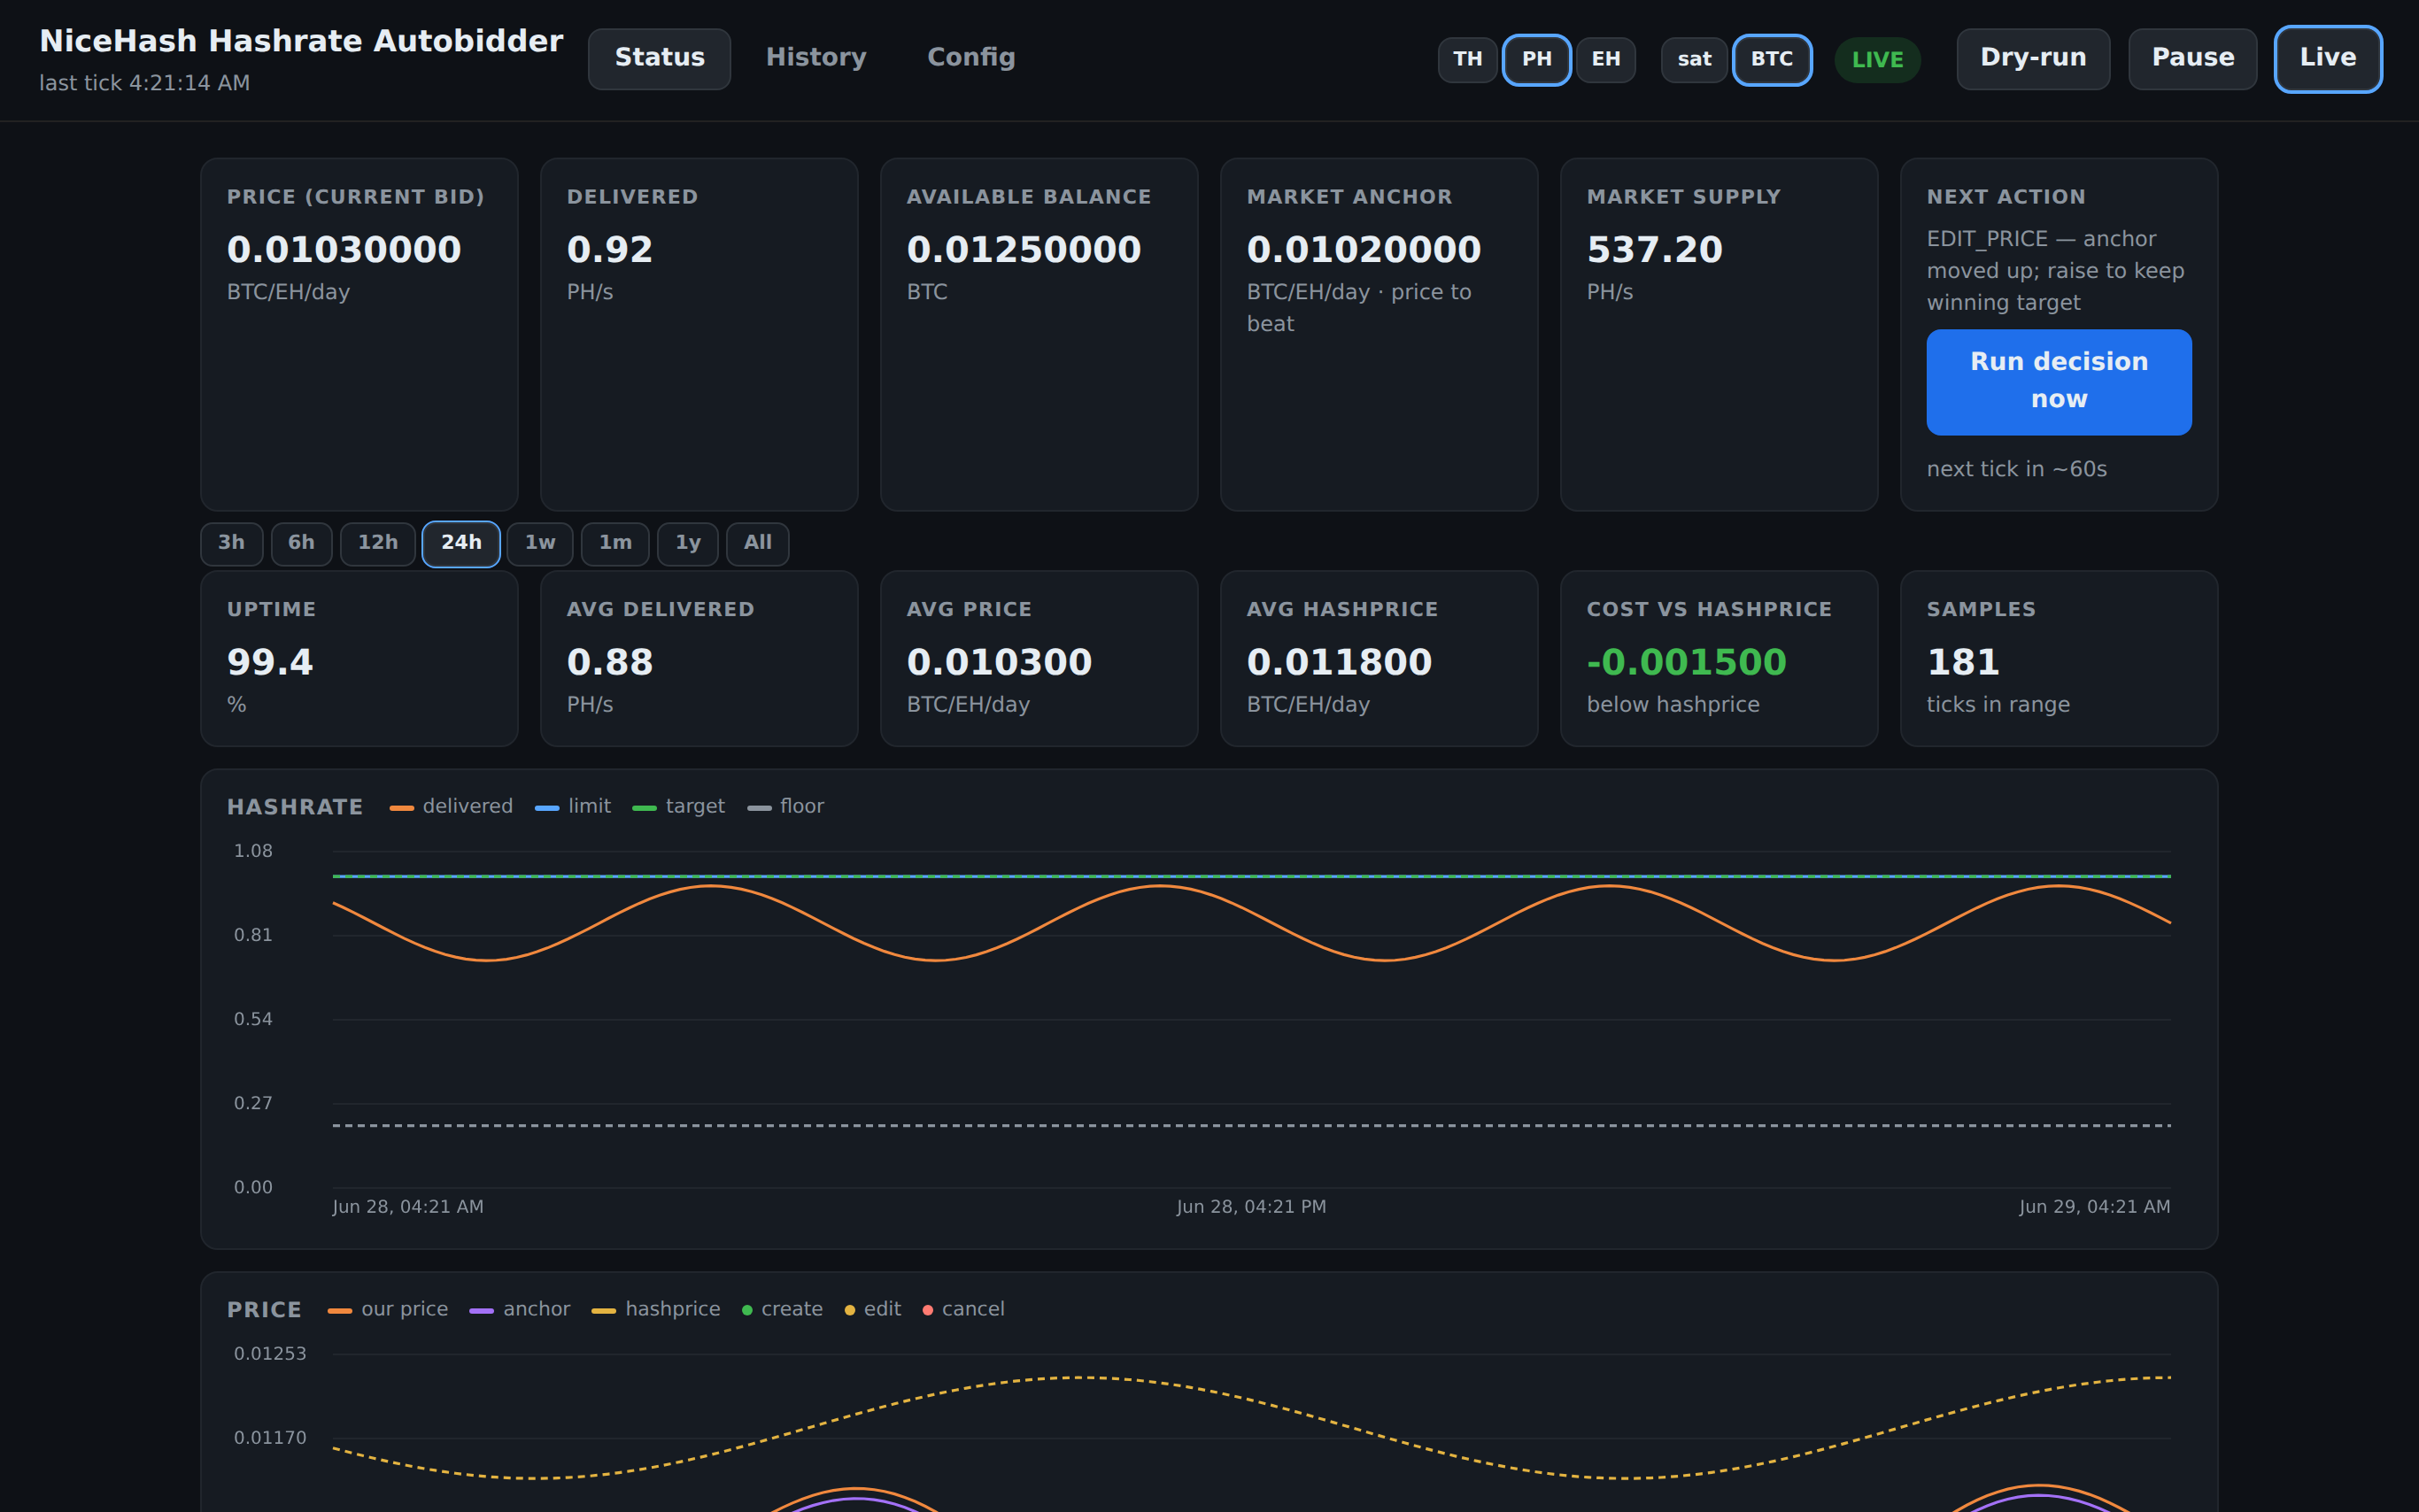
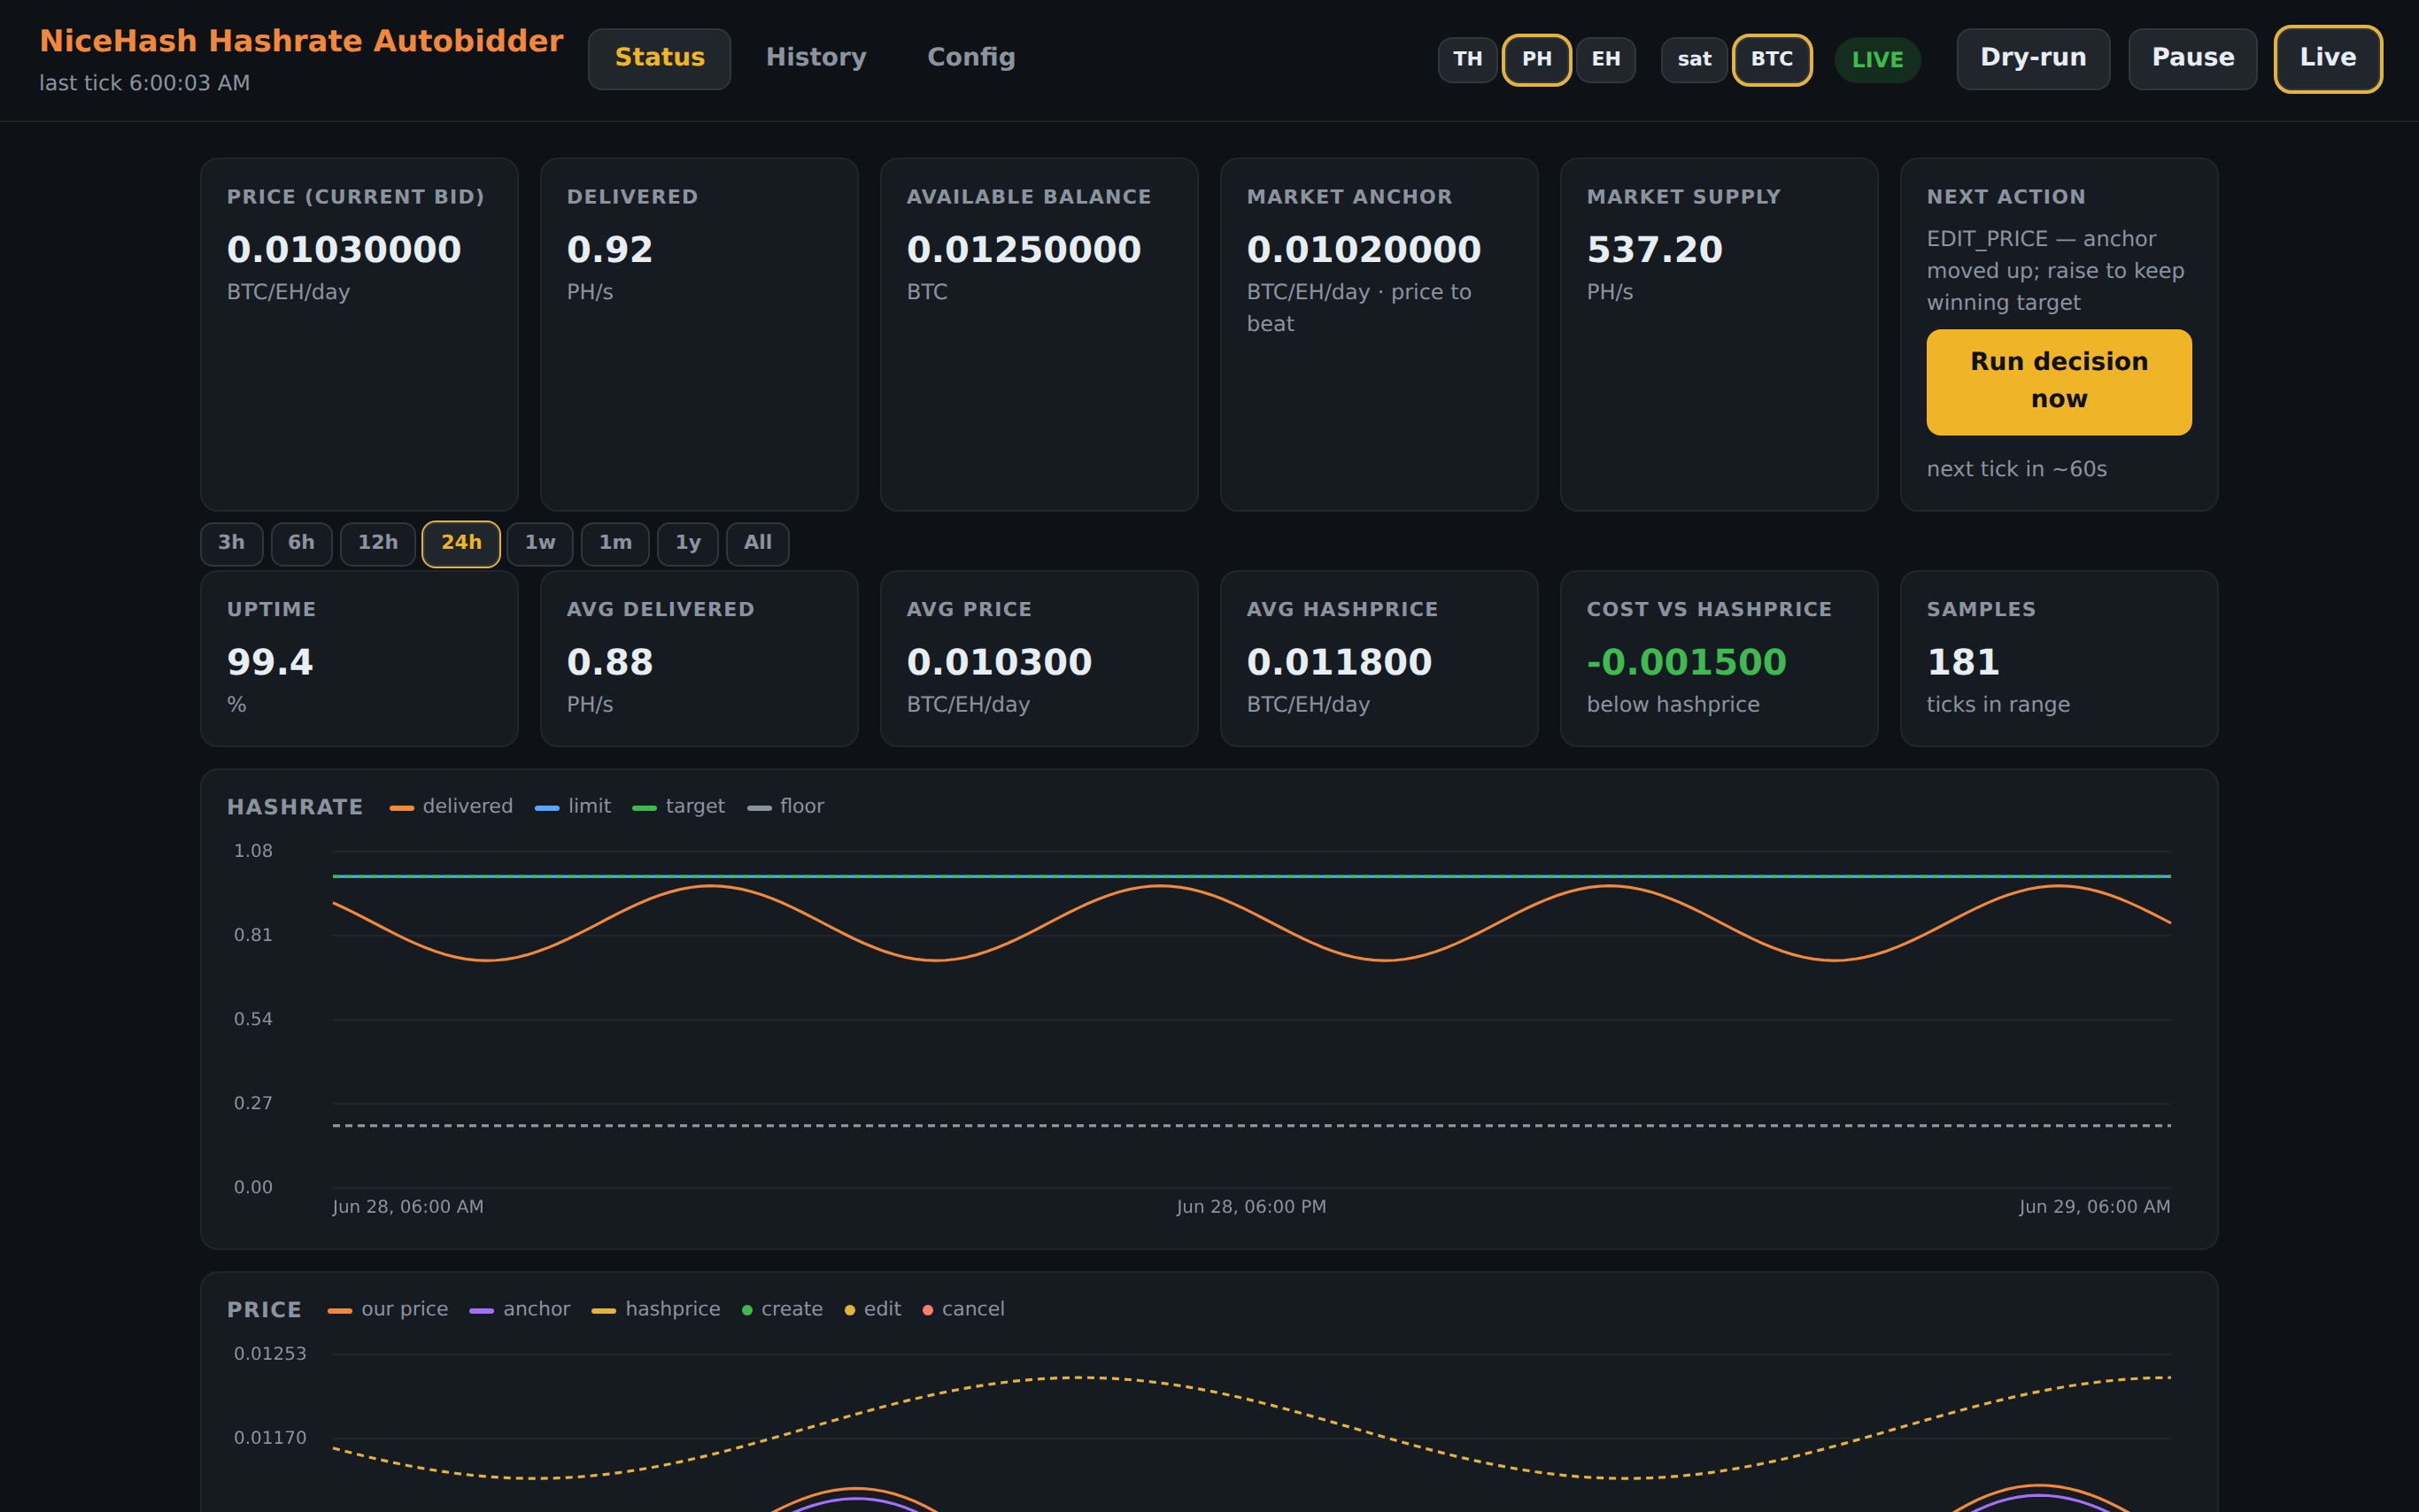
v0.3.1: mainnet defaults, autobidder theme, config help text
Three operator-facing refinements on top of the parity dashboard:

- Compose: default to the NiceHash mainnet API (api2.nicehash.com,
  balance currency BTC) and ship the API key/secret/org + pool BLANK.
  Those env values only seed settings on first install; the daemon boots
  from the values saved in the dashboard (app database) thereafter, so an
  update never clobbers them and existing installs keep their config.
  Removes the testnet throwaway credentials that were baked in for early
  testing.

- Dashboard re-themed to the Hashrate Autopilot palette: orange brand,
  amber/gold primary buttons + active states (nav, range, unit toggles,
  focus rings), orange links - replacing the blue accent.

- Every Config field now has an inline description (autobidder-style),
  including a clarification that "minimum floor" is a hashrate reference
  line drawn on the chart, NOT a price. The price floor you must outbid -
  the marginal/last-filled order NiceHash shows in purple in its order
  book - is the live market anchor, which computeMarketAnchor already
  tracks; the bidder sits overpay above it. (No bidding-logic change; the
  anchor was already the right analogue.)

Gallery screenshots refreshed to the themed UI. Version + image pinned to
0.3.1. Typecheck, the NiceHash suite (128), and lint are green.

Claude-Session: https://claude.ai/code/session_017LmUgmJCorAaVqeB3C9tAL

diff --git a/packages/daemon/src/http/nicehash-dashboard-html.ts b/packages/daemon/src/http/nicehash-dashboard-html.ts
@@ -29,12 +29,12 @@ export const NICEHASH_DASHBOARD_HTML = String.raw`<!doctype html>
   * { box-sizing: border-box; }
   body { margin: 0; font: 14px/1.5 system-ui, sans-serif; background: #0e1116; color: #e6edf3; }
   header { display: flex; align-items: center; gap: 14px; padding: 12px 22px; border-bottom: 1px solid #222; flex-wrap: wrap; }
-  h1 { font-size: 17px; margin: 0; font-weight: 600; }
+  h1 { font-size: 17px; margin: 0; font-weight: 600; color: #f0883e; }
   .sub { color: #8b949e; font-size: 12px; }
   .grow { flex: 1; }
   nav { display: flex; gap: 4px; }
   nav button { font: inherit; font-weight: 600; padding: 6px 14px; border-radius: 8px; border: 1px solid transparent; background: transparent; color: #8b949e; cursor: pointer; }
-  nav button.active { color: #e6edf3; background: #21262d; border-color: #30363d; }
+  nav button.active { color: #f0b429; background: #21262d; border-color: #30363d; }
   .badge { padding: 4px 10px; border-radius: 999px; font-weight: 600; font-size: 12px; }
   .mode-DRY_RUN { background: #1f6feb33; color: #58a6ff; }
   .mode-LIVE { background: #2ea04333; color: #3fb950; }
@@ -53,10 +53,10 @@ export const NICEHASH_DASHBOARD_HTML = String.raw`<!doctype html>
   th, td { text-align: left; padding: 6px 8px; border-bottom: 1px solid #21262d; font-variant-numeric: tabular-nums; font-size: 13px; }
   th { color: #8b949e; font-weight: 600; font-size: 11px; text-transform: uppercase; }
   .controls button, .toggle button { font: inherit; font-weight: 600; padding: 6px 12px; margin-left: 6px; border-radius: 8px; border: 1px solid #30363d; background: #21262d; color: #e6edf3; cursor: pointer; }
-  .controls button.active, .toggle button.active { outline: 2px solid #58a6ff; }
+  .controls button.active, .toggle button.active { outline: 2px solid #e3b341; }
   .toggle button { margin-left: 0; padding: 4px 8px; font-size: 11px; }
   .toggle { display: inline-flex; gap: 4px; align-items: center; }
-  .primary { background: #1f6feb !important; border-color: #1f6feb !important; }
+  .primary { background: #f0b429 !important; border-color: #f0b429 !important; color: #0e1116 !important; }
   .warn { background: #f8514922; border: 1px solid #f85149; color: #ff7b72; border-radius: 8px; padding: 10px 14px; margin-bottom: 14px; }
   .pill { padding: 2px 8px; border-radius: 6px; font-size: 11px; font-weight: 600; }
   .ok { background: #2ea04333; color: #3fb950; } .blocked { background: #6e768133; color: #8b949e; }
@@ -71,20 +71,21 @@ export const NICEHASH_DASHBOARD_HTML = String.raw`<!doctype html>
   canvas { width: 100%; height: 220px; display: block; margin-top: 8px; }
   .rangebar { display: flex; gap: 4px; margin: 6px 0 2px; flex-wrap: wrap; }
   .rangebar button { font: inherit; font-size: 11px; font-weight: 600; padding: 3px 9px; border-radius: 7px; border: 1px solid #30363d; background: #161b22; color: #8b949e; cursor: pointer; }
-  .rangebar button.active { background: #21262d; color: #e6edf3; outline: 1px solid #58a6ff; }
+  .rangebar button.active { background: #21262d; color: #f0b429; outline: 1px solid #e3b341; }
   fieldset { border: 1px solid #21262d; border-radius: 10px; margin: 0 0 14px; padding: 10px 14px; }
   legend { color: #8b949e; font-size: 11px; text-transform: uppercase; letter-spacing: .06em; padding: 0 6px; }
   .formgrid { display: grid; grid-template-columns: repeat(auto-fit, minmax(230px, 1fr)); gap: 10px 16px; }
   .formgrid label { display: flex; flex-direction: column; gap: 4px; font-size: 12px; color: #8b949e; }
-  .formgrid label.chk { flex-direction: row; align-items: center; gap: 8px; }
+  .formgrid .chkrow { display: flex; align-items: center; gap: 8px; }
+  .formgrid .help { color: #586069; font-size: 11px; font-weight: 400; line-height: 1.35; }
   .formgrid input, .formgrid select { font: inherit; padding: 7px 9px; border-radius: 7px; border: 1px solid #30363d; background: #0e1116; color: #e6edf3; }
-  .formgrid input:focus, .formgrid select:focus { outline: 2px solid #1f6feb; border-color: #1f6feb; }
+  .formgrid input:focus, .formgrid select:focus { outline: 2px solid #e3b341; border-color: #e3b341; }
   .btnrow { display: flex; align-items: center; gap: 10px; margin: 6px 0 8px; flex-wrap: wrap; }
   .btnrow button { font: inherit; font-weight: 600; padding: 8px 16px; border-radius: 8px; border: 1px solid #30363d; background: #21262d; color: #e6edf3; cursor: pointer; }
   .msg { font-size: 12px; color: #8b949e; }
-  code { color: #79c0ff; }
+  code { color: #e3b341; }
   footer { padding: 14px 22px; color: #586069; font-size: 11px; border-top: 1px solid #222; }
-  a { color: #58a6ff; }
+  a { color: #f0883e; }
 </style>
 </head>
 <body>
@@ -502,29 +503,40 @@ export const NICEHASH_DASHBOARD_HTML = String.raw`<!doctype html>
 
   // ---- config page ---------------------------------------------------------
   var CFG = [
-    { group: 'Connection', items: [['apiKey', 'API key', 'text'], ['apiSecret', 'API secret', 'password'], ['orgId', 'Organization ID', 'text'], ['baseUrl', 'Base URL', 'text']] },
+    { group: 'Connection', items: [
+      ['apiKey', 'API key', 'text', 'Your NiceHash organization API key. Create one at nicehash.com → Settings → API keys with hash-power order permissions.'],
+      ['apiSecret', 'API secret', 'password', 'The API secret paired with the key. Write-only: shown as dots once saved — leave the dots to keep it, type a new value to replace it.'],
+      ['orgId', 'Organization ID', 'text', 'Your NiceHash organization id (Settings → API keys → your organization).'],
+      ['baseUrl', 'Base URL', 'text', 'https://api2.nicehash.com for mainnet (live funds), https://api-test.nicehash.com for the testnet sandbox.'] ] },
     { group: 'Strategy', items: [
-      ['algorithm', 'Algorithm', 'text'], ['market', 'Market', 'text'],
-      ['priceCurrency', 'Order-book currency', 'text'], ['balanceCurrency', 'Balance currency', 'text'],
-      ['tickSeconds', 'Tick seconds', 'number'], ['targetSpeedUnits', 'Target speed (PH/s)', 'number'],
-      ['minimumFloorUnits', 'Minimum floor (PH/s)', 'number'],
-      ['overpayBtcPerUnitDay', 'Overpay (BTC/EH/day)', 'number'],
-      ['maxPriceBtcPerUnitDay', 'Max price (BTC/EH/day)', 'number'],
-      ['maxPremiumOverHashpriceBtc', 'Max premium over hashprice (0=off)', 'number'],
-      ['editPriceDeadbandPct', 'Edit-price deadband (%)', 'number'],
-      ['orderBudgetBtc', 'Order budget (BTC, 0=full)', 'number'],
-      ['refillAmountBtc', 'Refill amount (BTC, 0=off)', 'number'],
-      ['refillWhenRunwayHours', 'Refill when runway < (h)', 'number'] ] },
+      ['algorithm', 'Algorithm', 'text', 'Marketplace algorithm. SHA256ASICBOOST for Bitcoin ASIC hashrate.'],
+      ['market', 'Market', 'text', 'Order-book market — BTC for the Bitcoin marketplace.'],
+      ['priceCurrency', 'Order-book currency', 'text', 'Currency bucket the order book / market anchor is read from (BTC).'],
+      ['balanceCurrency', 'Balance currency', 'text', 'Wallet currency to read your available balance from. BTC on mainnet, TBTC on testnet.'],
+      ['tickSeconds', 'Tick seconds', 'number', 'Seconds between control-loop decisions (observe → price → act).'],
+      ['targetSpeedUnits', 'Target speed (PH/s)', 'number', 'How much hashrate you want delivered. The bidder prices to win this much from the market.'],
+      ['minimumFloorUnits', 'Minimum floor (PH/s)', 'number', 'A speed reference line drawn on the hashrate chart — NOT a price. The price "floor" you must outbid (the marginal/last-filled order, shown purple in NiceHash\'s order book) is the live market anchor and is tracked automatically.'],
+      ['overpayBtcPerUnitDay', 'Overpay (BTC/EH/day)', 'number', 'Cushion added above the market anchor. Higher = more reliably filled but costs more; lower = cheaper but drops out sooner when rivals raise.'],
+      ['maxPriceBtcPerUnitDay', 'Max price (BTC/EH/day)', 'number', 'Hard ceiling on the order price. The bidder never pays more than this, even if it means not winning the full target.'],
+      ['maxPremiumOverHashpriceBtc', 'Max premium over hashprice (0=off)', 'number', 'Dynamic ceiling = network hashprice + this (BTC/EH/day). Stops overpaying when hashprice falls. 0 disables it; needs a hashprice source.'],
+      ['editPriceDeadbandPct', 'Edit-price deadband (%)', 'number', 'Only re-price when the anchor moves more than this % of the overpay cushion. Higher = fewer edits (less churn), lower = tracks the market more tightly.'],
+      ['orderBudgetBtc', 'Order budget (BTC, 0=full)', 'number', 'Escrow used to fund a new order. 0 = use the full available wallet balance.'],
+      ['refillAmountBtc', 'Refill amount (BTC, 0=off)', 'number', 'Top-up added to a live order when its escrow runs low. 0 = never refill (let the order drain and re-create).'],
+      ['refillWhenRunwayHours', 'Refill when runway < (h)', 'number', 'Trigger a refill once the order\'s remaining runway drops below this many hours.'] ] },
     { group: 'Cheap mode', items: [
-      ['cheapModeEnabled', 'Enable cheap mode', 'checkbox'],
-      ['cheapModeTargetUnits', 'Cheap-mode target (PH/s)', 'number'],
-      ['cheapThresholdPct', 'Cheap threshold (% of hashprice)', 'number'] ] },
-    { group: 'Pool', items: [['poolHost', 'Pool host', 'text'], ['poolPort', 'Pool port', 'number'], ['poolUser', 'Pool user', 'text'], ['poolPassword', 'Pool password', 'text']] },
+      ['cheapModeEnabled', 'Enable cheap mode', 'checkbox', 'When our bid sits far below the network hashprice, opportunistically scale the target up to grab cheap hashrate.'],
+      ['cheapModeTargetUnits', 'Cheap-mode target (PH/s)', 'number', 'Target speed to scale up to while cheap mode is engaged. Must exceed the normal target to have an effect.'],
+      ['cheapThresholdPct', 'Cheap threshold (% of hashprice)', 'number', 'Engage cheap mode when our bid is below this percentage of the network hashprice (e.g. 95).'] ] },
+    { group: 'Pool', items: [
+      ['poolHost', 'Pool host', 'text', 'Your stratum pool hostname. The app registers it with NiceHash automatically (no fee).'],
+      ['poolPort', 'Pool port', 'number', 'Stratum port of your pool.'],
+      ['poolUser', 'Pool user', 'text', 'Pool username / worker — often your BTC payout address (with an optional .worker suffix).'],
+      ['poolPassword', 'Pool password', 'text', 'Pool password. Many pools accept "x".'] ] },
     { group: 'Daemon & data', items: [
-      ['bootMode', 'Boot mode', 'select:DRY_RUN,RESUME,LIVE'],
-      ['hashpriceSource', 'Hashprice source', 'select:none,mempool'],
-      ['priceSource', 'BTC price source', 'text'],
-      ['retentionDays', 'History retention (days)', 'number'] ] }
+      ['bootMode', 'Boot mode', 'select:DRY_RUN,RESUME,LIVE', 'Run mode on restart: DRY_RUN always starts safe; RESUME keeps the last mode (PAUSED is demoted to DRY_RUN); LIVE boots straight into trading.'],
+      ['hashpriceSource', 'Hashprice source', 'select:none,mempool', 'Network-hashprice source for the cost-vs-hashprice tile and the estimated P&L. "mempool" uses mempool.space (mainnet); "none" disables those estimates.'],
+      ['priceSource', 'BTC price source', 'text', 'BTC/USD source for display purposes (reserved for a future USD toggle).'],
+      ['retentionDays', 'History retention (days)', 'number', 'How many days of per-tick metrics and order history to keep before pruning.'] ] }
   ];
   function buildConfigForm() {
     var html = '';
@@ -532,14 +544,15 @@ export const NICEHASH_DASHBOARD_HTML = String.raw`<!doctype html>
       html += '<fieldset><legend>' + esc(g.group) + '</legend><div class="formgrid">';
       g.items.forEach(function (it) {
         var id = 'cfg_' + it[0], type = it[2];
+        var help = it[3] ? '<span class="help">' + esc(it[3]) + '</span>' : '';
         if (type === 'checkbox') {
-          html += '<label class="chk"><input id="' + id + '" type="checkbox" />' + esc(it[1]) + '</label>';
+          html += '<label><span class="chkrow"><input id="' + id + '" type="checkbox" />' + esc(it[1]) + '</span>' + help + '</label>';
         } else if (type.indexOf('select:') === 0) {
           var opts = type.slice(7).split(',').map(function (o) { return '<option value="' + esc(o) + '">' + esc(o) + '</option>'; }).join('');
-          html += '<label>' + esc(it[1]) + '<select id="' + id + '">' + opts + '</select></label>';
+          html += '<label>' + esc(it[1]) + '<select id="' + id + '">' + opts + '</select>' + help + '</label>';
         } else {
           var extra = type === 'number' ? ' step="any"' : type === 'password' ? ' autocomplete="off"' : '';
-          html += '<label>' + esc(it[1]) + '<input id="' + id + '" type="' + type + '"' + extra + ' /></label>';
+          html += '<label>' + esc(it[1]) + '<input id="' + id + '" type="' + type + '"' + extra + ' />' + help + '</label>';
         }
       });
       html += '</div></fieldset>';

diff --git a/CHANGELOG.md b/CHANGELOG.md
@@ -2,6 +2,24 @@
 
 ## 2026-06-29
 
+### `[Infra]` Default to mainnet; remove baked testnet credentials
+
+The Umbrel compose now points at `https://api2.nicehash.com` with
+`NICEHASH_BALANCE_CURRENCY=BTC` and ships the API key/secret/org + pool
+**blank** — you enter your own on the Config tab. These env values only seed
+settings on first install; the daemon then boots from the values saved in
+the app database, so updates never clobber them and existing installs keep
+their saved config.
+
+### `[UI]` Autobidder theme + config field help
+
+Re-themed the dashboard to the Hashrate Autopilot palette (orange brand,
+amber/gold primary + active states) and added an inline description under
+every Config field. Clarified that "minimum floor" is a hashrate reference
+line, not a price: the price floor you outbid (NiceHash's purple marginal
+order) is the live market anchor the bidder already tracks. Gallery
+screenshots refreshed.
+
 ### `[UI]` Full dashboard: Status / History / Config, charts, tiles, P&L
 
 Rebuilt the dashboard into a tabbed, Hashrate-Autopilot-style operator UI